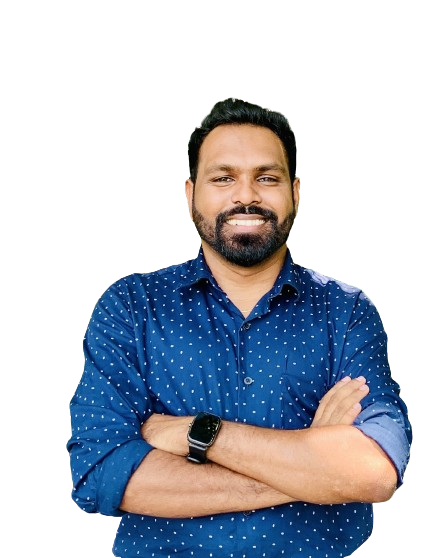
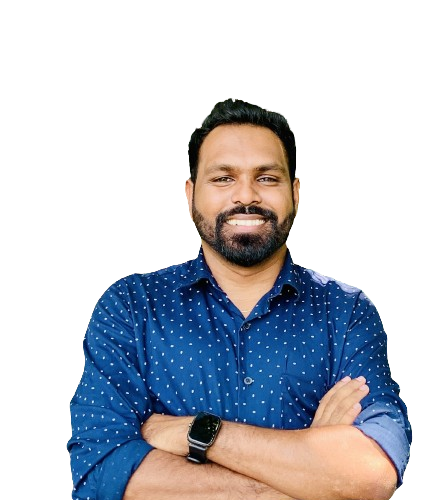
image changes

diff --git a/index.html b/index.html
@@ -239,7 +239,7 @@
           >
             <img
               class="rounded-xl object-cover z-20"
-              src="assets/img/about_me.jpg"
+              src="assets/img/about_me.png"
             />
           </div>
           <div class="flex flex-col p-5 md:p-0 md:pl-16 md:w-[70%]">
